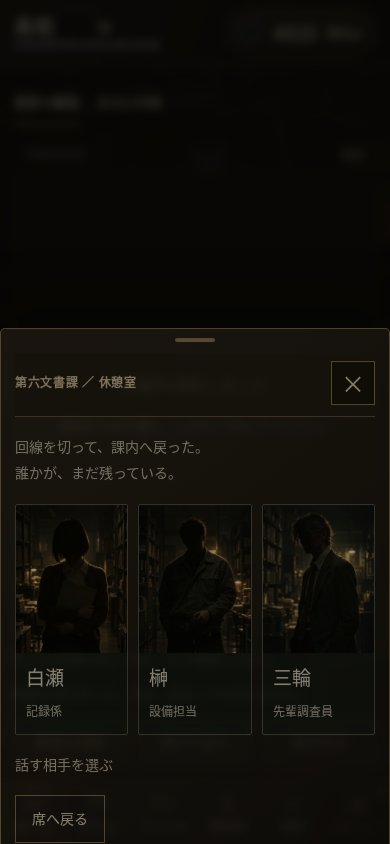
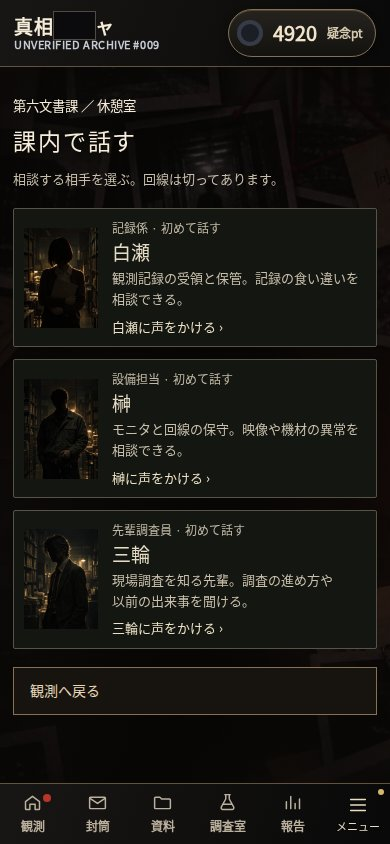
Clarify colleague introductions and staged conversation navigation

diff --git a/assets/observation.css b/assets/observation.css
@@ -76,3 +76,39 @@ body.watch-mind-quiet #watch-veil{display:none}
 @media(max-width:350px){.watch-people{gap:7px}.watch-person b,.watch-person small{margin-inline:7px}.watch-person small{font-size:11px}.watch-speaker{gap:14px}.watch-conversation blockquote{font-size:15px}}
 /* A quiet secondary route; the red raster frame used to compete with the scene. */
 .agent-home #agent-primary{min-height:50px;border:1px solid #76634b;border-image:none;border-radius:2px;background:#30271e;color:#e5d5b8;padding:12px 18px;box-shadow:none;font:500 15px/1.6 var(--f-body)}
+
+/* Conversation is a reading page. Choices, replies and navigation have separate places. */
+.colleague-scene{max-width:640px;margin:0 auto;padding:8px 0 16px}
+.colleague-scene h1{margin:6px 0 12px;font:500 23px/1.4 var(--f-body);letter-spacing:.08em}
+.colleague-scene .watch-people{grid-template-columns:1fr;gap:12px;margin:18px 0}
+.colleague-scene .watch-person{display:grid;grid-template-columns:74px minmax(0,1fr);gap:14px;padding:12px;align-items:center}
+.colleague-scene .watch-person img{width:74px;height:100px;object-fit:cover}
+.colleague-scene .watch-person b,.colleague-scene .watch-person small{margin:0 0 5px}
+.watch-person-description{display:block;font:13px/1.7 var(--f-body);color:#c9bfac}
+.watch-person-action{display:block;margin-top:7px;font:13px/1.5 var(--f-body);color:#ece0c5}
+.colleague-scene .watch-speaker{gap:16px;padding:12px 0}
+.colleague-scene .watch-speaker img{width:72px;height:96px}
+.colleague-scene .watch-speaker h1{font-size:24px;margin:3px 0 6px}
+.colleague-scene .watch-conversation blockquote{min-height:0;margin:16px 0 24px;font:16px/1.95 var(--f-body)}
+.watch-conversation-cue{color:#afa58f;font:12px/1.6 var(--f-body);margin:12px 0}
+.watch-selected-topic,.watch-action-label{font:13px/1.6 var(--f-body);color:#cec0a2;margin:12px 0 8px}
+.watch-selected-topic{border-left:2px solid #75654b;padding-left:10px}
+.watch-introduction{padding:12px;background:#191b16;font:14px/1.8 var(--f-body);color:#d8ceb9}
+.watch-topic-selection>.watch-choice{width:100%;margin:0 0 8px}
+.watch-next,.watch-leave{width:100%;min-height:46px;white-space:normal}
+.watch-conversation-footer{border-top:1px solid #4c483c;margin-top:20px;padding-top:14px}
+.colleague-scene .investigation-return{width:100%;min-height:48px;margin:0 0 10px;background:#292a20;color:#f0e4cc}
+.colleague-scene button:focus-visible{outline:2px solid #d8c28e;outline-offset:3px}
+@media(max-width:350px){.colleague-scene .watch-person{padding:10px;gap:12px}.colleague-scene .watch-conversation blockquote{font-size:15px}}
+
+.colleague-scene .watch-conversation{display:flex;flex-direction:column;min-height:calc(100dvh - 176px)}
+.colleague-scene .watch-dialogue-actions{margin-top:auto}
+.colleague-scene .watch-conversation>.menu-back{align-self:flex-start;min-height:44px}
+
+.colleague-scene button,.colleague-scene blockquote{scroll-margin-block:90px}
+
+.colleague-scene .watch-person{padding:10px}
+.colleague-scene .watch-person b{font:500 19px/1.3 var(--f-body);margin-bottom:3px}
+.colleague-scene .watch-person small{font:12px/1.5 var(--f-body);margin-bottom:3px}
+.colleague-scene .watch-person-description{font:13px/1.6 var(--f-body)}
+.colleague-scene .watch-room-note{font:13px/1.7 var(--f-body);margin:10px 0}

diff --git a/assets/investigation.js b/assets/investigation.js
@@ -50,7 +50,7 @@ function investigationTestimony(id){
  return r.data.testimony[r.rarity];
 }
 function investigationTopic(id){
- const s=investigationState(),r=investigationRecord(s.lastRead);return r&&s.read[r.key]&&r.data.member===id?'<button class="watch-choice" data-trail="witness" data-key="'+r.key+'">この記録について</button>':'';
+ const s=investigationState(),r=investigationRecord(s.lastRead);return r&&s.read[r.key]&&r.data.member===id?'<button class="watch-choice" data-trail="witness" data-key="'+r.key+'">「'+OBSERVATIONS[r.mode].records[r.rarity]+'」について聞く</button>':'';
 }
 function investigationReturn(id){
  const s=investigationState(),r=investigationRecord(s.lastRead);return r&&s.read[r.key]&&r.data.member===id?'<button class="btn-line investigation-return" data-trail="record" data-key="'+r.key+'">記録へ戻って照合する</button>':'';

diff --git a/index.html b/index.html
@@ -1117,6 +1117,7 @@ main:has(.gacha-scene:not([hidden])){padding-bottom:calc(var(--nav-h) + env(safe
     </article>
   </section>
 
+  <section class="view dossier-view colleague-scene" data-view="colleagues" hidden></section>
   <section class="view dossier-view menu-scene" data-view="menu" hidden><header class="menu-page-heading"></header><div id="menu-page-content"></div></section>
 
   <!-- GACHA -->

diff --git a/docs/COLLEAGUES.md b/docs/COLLEAGUES.md
@@ -4,6 +4,12 @@ UI principle: observe → recognize a discrepancy → intervene or disconnect. K
 
 Horror comes from uncertain testimony and ordinary routines with one wrong detail, rather than progress meters or more visual noise. Three colleagues have four topics with three variants each, six greeting/return lines and one conditional contradiction (43 authored dialogue lines). Topic counters and the contradiction clue survive saves. Opening a conversation does not advance topic variants. Conversation retains the existing global 120-second recovery cooldown; dialogue never adds mental load. Long-term narrative pacing remains to be playtested.
 
+## Conversation navigation
+
+The room and conversations use the dedicated `colleagues` view. The roster explains each person’s role and what to ask them. First contact is saved in `observation.contacts`, separately from recovery counts; each colleague introduces themself, including when entered directly from acquired evidence. Opening or changing topics does not award points or trigger recovery. Existing dialogue variants and the global recovery cooldown are unchanged.
+
+First read the introduction, then choose a topic, read the reply, and explicitly choose another topic. The selected topic remains above the reply. Record testimony offers a direct comparison return. Speaker selection is above the conversation; leaving is below it and keeps the monitor closed. Escape dismisses a modal first, then returns to the roster, then observation. This is in-app navigation, not native browser history. Small or landscape screens can scroll for readable text; all controls remain reachable above the bottom navigation.
+
 ## Portrait assets
 
 Generated with built-in imagegen, one generation per portrait; converted to 512px-wide WebP for delivery. No fallback CLI or image editing. Original PNGs preserved in the generation output. Dark facial detail is intentional, while names, roles and distinct outlines identify the speaker.
